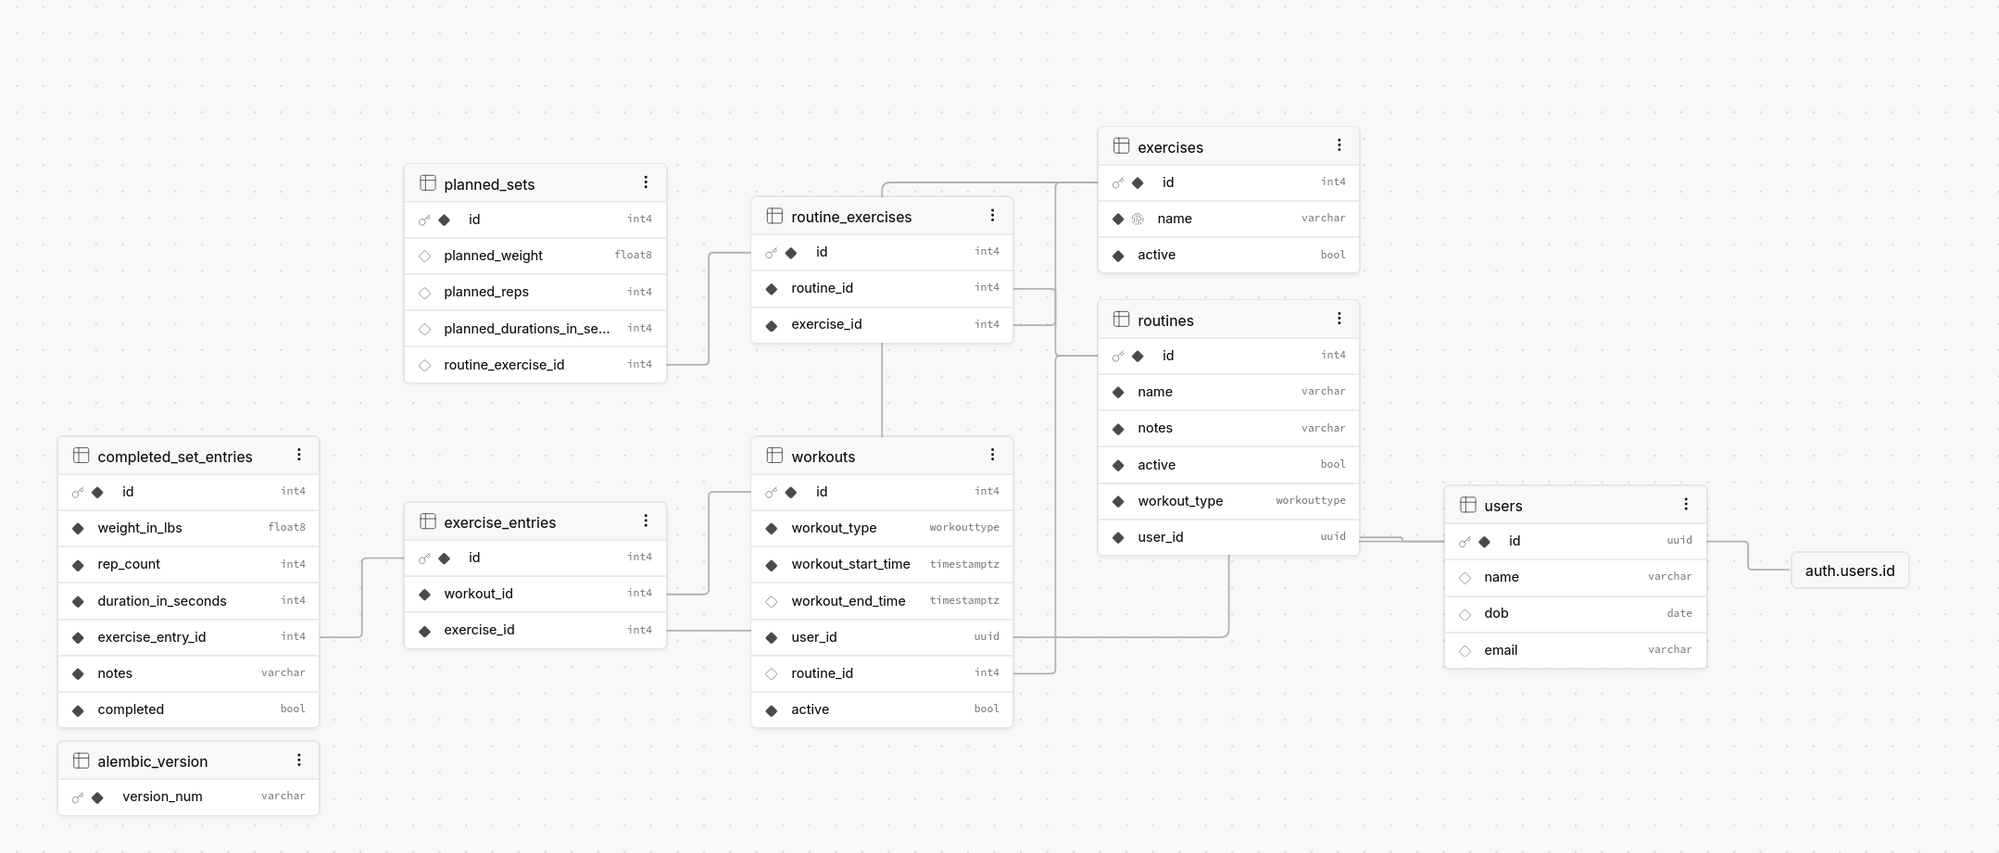
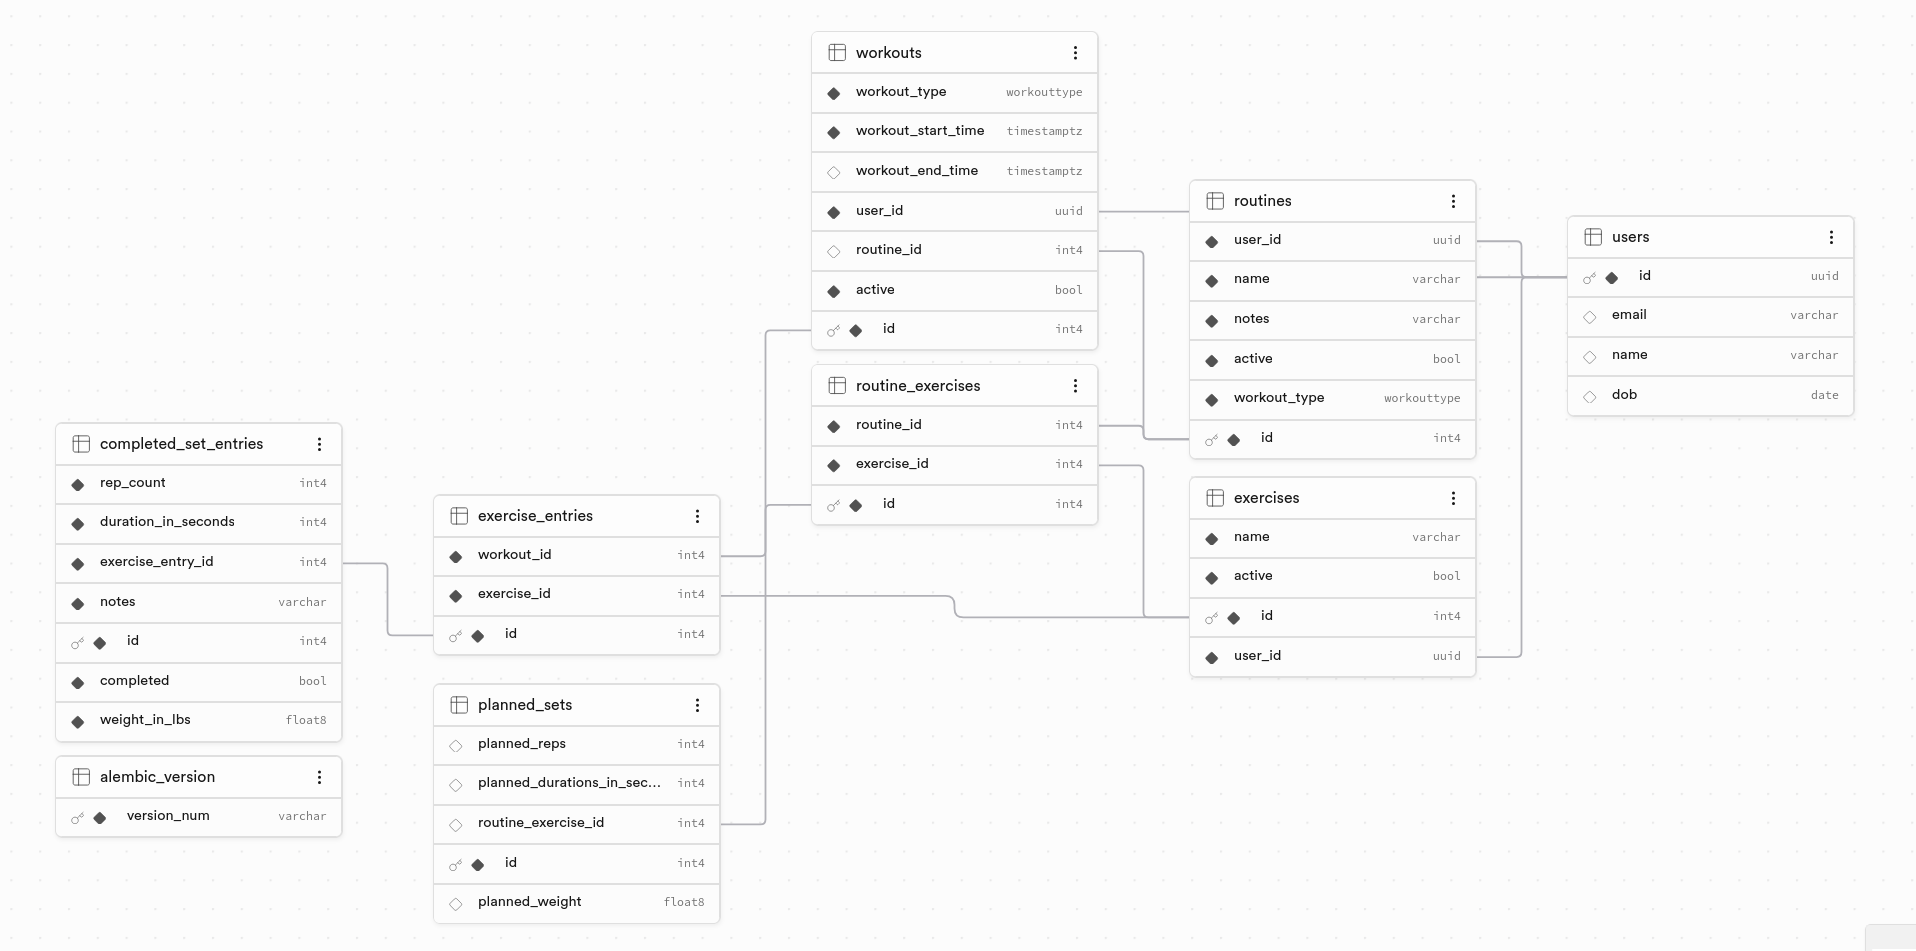
Update Astron blog post to V2 draft
Incorporates feedback from Mike and Jasmine: explains RLS vs. app-level
auth trade-off, clarifies the Postgres connection pooling detail, moves
exercises from global to user-specific with reasoning, adds a PWA/offline
next-steps section, and adds a special thanks section. Also refreshes the
DB schema screenshot.

diff --git a/blogs/7-building-astron-a-workout-tracker-that-lives-in-your-browser.md b/blogs/7-building-astron-a-workout-tracker-that-lives-in-your-browser.md
@@ -1,6 +1,6 @@
 ---
 title: Building Astron, a Workout Tracker That Lives in Your Browser
-description: I built Astron, a workout tracker that behaves like a native app but lives entirely in your browser — here's why I made it, how I designed it, and the stack behind it (FastAPI, SQLModel, Supabase, Alembic).
+description: I built Astron, a workout tracker that behaves like a native app but lives entirely in your browser — here's why I made it, how I designed it, and the stack behind it (FastAPI, SQLModel, Supabase, Alembic), plus why I chose app-level auth over RLS.
 layout: blog.njk
 tags: blog
 topics:
@@ -8,14 +8,14 @@ topics:
   - python
   - supabase
 isFeedback: true
-feedbackThoughts: Does the motivation section make you care about why I built this? Does the technical section drag anywhere, and is there too much/too little depth on any one part (FastAPI, Supabase, migrations)?
+feedbackThoughts: Does the RLS vs. app-level auth explanation make sense, or does it need more detail? Is the offline/PWA section clear about what's actually built vs. planned? Does the special thanks section feel like a natural close, or out of place?
 ---
 
 # Building Astron — a Workout Tracker That Lives in Your Browser
 
 ## Intro
 
-Over the past three weeks, I built Astron, a workout tracker that behaves like a native app but lives entirely in your browser. In this post, I'll walk through what pushed me to build it, how I approached the design, the implementation details (tech stack, auth, migrations, and all), what I learned along the way, and where I'm taking it next.
+Over the past three weeks, I built [Astron](https://www.useastron.com), a workout tracker that behaves like a native app but lives entirely in your browser. In this post, I'll walk through what pushed me to build it, how I approached the design, the implementation details (tech stack, auth, data migrations, and all), what I learned along the way, and where I'm taking it next.
 
 Astron is live at [useastron.com](https://www.useastron.com) — I've been testing it with a few friends (huge s/o to Mike, Thomas and Jasmine) and would genuinely love your feedback too.
 
@@ -33,25 +33,27 @@ Astron is live at [useastron.com](https://www.useastron.com) — I've been testi
   - [Supabase](#supabase)
   - [Data migrations using Alembic](#data-migrations-using-alembic)
 - [Next steps](#next-steps)
+  - [Going offline first (or second (dumb joke mb!))](#going-offline-first-or-second-dumb-joke-mb)
   - [Use data to find personal records (PRs) and patterns](#use-data-to-find-personal-records-prs-and-patterns)
   - [Data replication to not lose users data](#data-replication-to-not-lose-users-data)
   - [OAuth Social authentication with Google and Apple](#oauth-social-authentication-with-google-and-apple)
   - [Voice feature to not have to enter stuff manually](#voice-feature-to-not-have-to-enter-stuff-manually)
   - [Share feature (that I'm excited about)](#share-feature-that-im-excited-about)
+- [Special thanks](#special-thanks)
 
 ## Motivations
 
-I've been working out on and off for most of my life. The past couple of years I got more and more into it (especially calisthenics) and for the past 2-3 years, this is how I logged my workouts (Google notes):
+I've been working out on and off for most of my life. The past couple of years I got more and more into it (especially calisthenics) and for the past 2-3 years, this is how I logged my workouts (Google Keep!):
 
 ![Old workout notes, screenshot 1](/images/7/old-workout-notes-1.png)
 
 ![Old workout notes, screenshot 2](/images/7/old-workout-notes-2.png)
 
-This was easy enough to do (which is why I kept doing it for so long). I'd just open my notes app and log whatever I was doing. But as I progressed and my goals grew, things got difficult. For example, I'd think to myself "How much did I squat last week?" so I could add more weight — to find out I had to scroll a wall of text to find that one entry. Other questions I couldn't easily answer:
+This was easy enough to do (which is why I kept doing it for so long). I'd just open my notes app and log whatever I was doing. But as I progressed and my goals grew, things got difficult. One of the problems was that Google Keep (as well as Samsung notes) limit how many characters a note can have, so at some point you'll run out of space. Another problem was being able to answer some questions easily. For example, I'd think to myself "How much did I squat last week?" so I could add more weight — to find out I had to scroll a wall of text to find that one entry. Other questions I couldn't easily answer:
 
 - "What was my longest handstand this month?"
 - "This is a PR, but what was the one before?"
-- Have I been progressing like I want (5lbs+ per week on squats)?
+- "Have I been progressing like I want (5lbs+ per week on squats)?"
 
 Some of you might be thinking: why not use an existing app? Why bother making something? The truth is, I did try a ton of apps before I decided to make this one. In fact, these are some of the apps I tried and why I didn't like them:
 
@@ -79,7 +81,10 @@ With the motivations in place, it was time to design the schema. It's relational
 ![Astron database schema](/images/7/db-schema.png)
 
 - A routine defines its own set of routine-exercises and belongs to a user.
-- Exercises are global rather than per-user. I didn't see the point of 10 users each defining "pull ups" separately. The trade-off is that deleting an exercise affects everyone — so exercises are only ever disabled, never fully removed.
+- Exercises are user-specific. Originally I made them global, mainly to avoid 10 different users all creating their own "pull ups" row. But the more I thought about it, the less it made sense:
+  - Everyone types exercises differently — "pull ups", "Pull-Ups", "pullups"
+  - This app targets athletes across different disciplines to log their workouts/create routines. Someone into bodybuilding doesn't need to see "planche holds" cluttering their exercise list — that's specific to calisthenics.
+  - I eventually want to offer pre-defined exercise lists tailored to a specific sport or training style that users can opt into. That means exercises need to be attachable to individual users, not shared globally, so I can target the right set of exercises to the right user.
 - A workout can be started from a routine (which loads all its exercises automatically) or as a free workout, where the user enters any exercise and sets/reps on the fly.
 - Each user can see and manage their own routines and exercises.
 
@@ -157,7 +162,7 @@ Thanks to FastAPI, the `post_workout` endpoint only takes `workout: WorkoutCreat
 }
 ```
 
-`service` never shows up in that payload (it's resolved as a dependency, not passed in by the client). That's the part I love about FastAPI's pattern: without dependency injection, I'd have to manually construct the service, session, and resolve and authorize the user inside every endpoint that needs them. This way, I declare each dependency once and reuse it anywhere.
+`service` never shows up in that payload (it's resolved as a dependency, not passed in by the client). That's the part I love about FastAPI's pattern: without dependency injection, I'd have to manually construct the service and session, and resolve and authorize the user, inside every endpoint that needs them. This way, I declare each dependency once and reuse it anywhere.
 
 ### Supabase
 
@@ -169,11 +174,28 @@ Signing in and spinning up a project took less than five minutes, and I had a wo
 - How do the different connection types work?
 - Could I replicate this myself, and get it for free?
 
+#### Supabase auth logic (why I went with app logic instead of RLS)
+
+I chose Supabase for authentication partly to see how it worked and why so many people go with it. Going through their docs, I noticed they push pretty hard for [row-level security](https://www.postgresql.org/docs/current/ddl-rowsecurity.html) (RLS) right out of the gate — something I'd never used or even heard of before.
+
+RLS lets you add policies to a table that get evaluated at query time. A policy might say something like "does `user_id` on this row match the user_id making the query?" — if true, the row is returned; if not, it's excluded, as if it didn't exist.
+
+RLS is especially critical when clients query the database directly (such as raw SQL from the frontend, with no server in between). Since I'd already built a server with SQLModel handling all my queries, I decided to put the authorization logic there instead of pushing it down to the database. So instead of RLS, I handle authorization in the app logic. Here's how it works:
+
+- The client's session is managed by Supabase, which issues a signed JWT.
+- When the client calls the server (say, to fetch a user's routines), it sends that JWT along. The server validates it and checks that the requesting user is actually authorized to access the data they're asking for.
+
+This works well for my use case and I'm comfortable with the security trade-off — I'm leveraging Supabase's JWTs for identity, and my server enforces authorization on top of that. If my server gets a valid JWT that has a different identity than what the query wants, it will reject it. The request will never reach the database.
+
+(I know I could have both RLS and app-level auth. However, at this stage, I decided that what I have now is enough and don't want to add more complexity. Once I add a few more features, I will reconsider this approach)
+
 #### Supabase database connections
 
-Turns out that when you launch a Supabase project, they spin up an EC2 instance running Postgres behind it. I wouldn't be able to just spin up an EC2 instance myself on the free tier — AWS gives you more raw compute to work with directly, but once you cross the free-tier usage limits, you're paying regardless.
+Turns out that when you launch a Supabase project, they provision a dedicated Postgres instance on AWS for you. If I tried to do that myself (spinning up an EC2 instance and running Postgres on it), the free tier wouldn't get me far and I'd have to start paying rather quickly. Supabase's free tier is definitely generous.
 
-Supabase offers two connection types: burst connections (for Lambda-style compute) and long-lived connections (for always-on apps like ECS or Kubernetes). This is important because with the API in Vercel Functions, you could at any time spin up 50 (or more) Vercel Functions simultaneously, if you were using long-lived connections, you'd be opening and closing 50 separate connections in the span of a few seconds. Postgres (and most database engines) just isn't built to handle that kind of churn, and it goes through slow HTTP overhead each time. Burst connections solve this with a pooled set of long-lived connections underneath, handing one out whenever you need it and reclaiming it after (no manual open/close required).
+Supabase offers two connection types: direct connections and pooled connections (via their connection pooler, built on PgBouncer/Supavisor). This distinction matters a lot for serverless compute like Vercel Functions. Postgres has a hard limit on how many concurrent connections it can hold open (each connection consumes resources from the database server, so there must be a ceiling, or the server risks running out of memory or crashing under load). If 50 Vercel Functions spin up simultaneously and each one opens its own direct connection to Postgres, you can blow through that connection limit almost immediately. On top of that, every new connection has real setup cost (a TCP handshake, followed by a TLS handshake, and Postgres's own authentication step) which adds latency you don't want to pay repeatedly for short-lived serverless invocations.
+
+Pooled connections solve this problem by sitting a connection pooler in front of Postgres: the pooler maintains a smaller set of direct connections to the database, and incoming client requests go through the pooler and share those connections instead of each one opening its own. The pooler handles the pool of connections itself, so serverless functions only need to worry about reaching the pooler and getting handed a connection — removing that overhead from the functions themselves.
 
 #### Supabase CLI
 
@@ -210,9 +232,17 @@ Overall, Alembic does exactly what it needs to: it's easy to set up, and I reall
 
 ## Next steps
 
+### Going offline first (or second (dumb joke mb!))
+
+Astron became a progressive web app (PWA) as I worked on it. For anyone unfamiliar: a PWA is a website that uses a service worker — a script that runs in the background, independently of the page itself — to behave more like a native mobile app. One of the things a service worker can do is intercept network requests, which (combined with local storage like the Cache API or IndexedDB) is what makes offline support possible.
+
+Right now, Astron does not work offline. I built it online-only from the start, and by the time I realized how useful having offline mode would be (since a lot of gyms have slow connections and what not), most of the app was already built. I've never designed an offline-first app before, so there's some learning and design work I gotta do in order to set this up properly.
+
+The goal: once this ships, you should be able to use Astron almost entirely offline (log workouts, create routines, etc) and have everything sync automatically the moment you're back online.
+
 ### Use data to find personal records (PRs) and patterns
 
-I want to have a page where people can see their PRs. I am thinking this will be just grabbed from the workout automatically to see all-time PRs, and then 3-6-12 month ones, or something along those lines that I want to refine.
+I want to have a page where people can see their PRs. I am thinking this will be pulled automatically from workout history — all-time PRs, and then 3-6-12 month ones, or something along those lines that I want to refine.
 
 I know not everyone is competitive and some people work out for the health benefits and don't care much about the number. However, there are many people that do care and I am one of those, plus I think everyone could benefit from seeing this and realizing how much they've improved over time. It just makes you feel happy to see your own progress.
 
@@ -222,7 +252,7 @@ At the moment there is no data replication, if something happened to my Supabase
 
 ### OAuth Social authentication with Google and Apple
 
-Since the magic link didn't end up working and now you have to enter an OTP, I really want to enable Google and Apple authentication for anyone who rather use that to log into the app. I just need to make the accounts for each provider and complete the setup, so don't expect this to take too long.
+Since the magic link didn't end up working and now you have to enter an OTP, I really want to enable Google and Apple authentication for anyone who'd rather use that to log into the app. I just need to make the accounts for each provider and complete the setup, so don't expect this to take too long.
 
 ### Voice feature to not have to enter stuff manually
 
@@ -234,4 +264,13 @@ I haven't even planned to charge for anything so I'll have to come up with somet
 
 The overall idea of this application was to simply track your workouts, that's the truth. I wanted it for myself, but as I started to make it, I thought it wouldn't be difficult and would make me feel better to make it not only for me but anyone who wanted to use it.
 
-I don't run, but on Instagram I do follow a few people who do, there is an app I've never used called Strava, they seem to have a share feature that shows how much you run, at which speed, and has like a little map showing the route you took. I want to think of something cool like that for this app; a share feature that shows the workout you did, maybe highlighting some numbers or PRs if any. I'll share more when I refine this.
+I don't run, but I follow a few runners on Instagram, and I've seen the Strava app come up. I've never used it myself, but they have a share feature that shows distance, pace, and even a little map of your route. I want to think of something cool like that for this app — a share feature that shows the workout you did, maybe highlighting some numbers or PRs if any. I'll share more when I refine this.
+
+## Special thanks
+
+A few friends (all sharp folks in tech) tested Astron early on and gave feedback on this post as it came together. I'm lucky to have people this generous with their time, and wanted to give them a proper shoutout:
+
+- [Mike Chen](https://www.linkedin.com/in/chenhmike/)
+- [Jasmine Vo](https://www.linkedin.com/in/jasminepvo/)
+- [Thomas Nguyen](https://www.linkedin.com/in/thomasnguyensoftware/)
+- [Bethany Ann](https://www.linkedin.com/in/bethanyann/)
